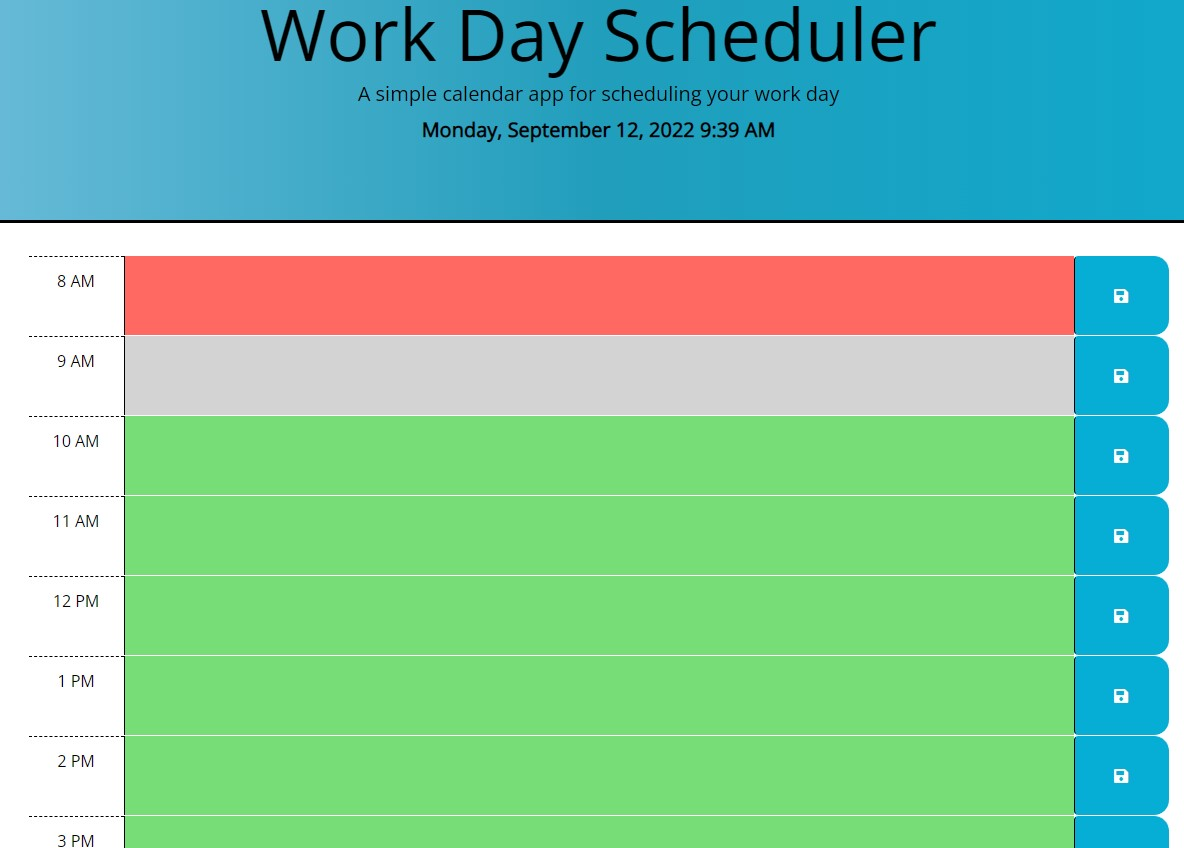
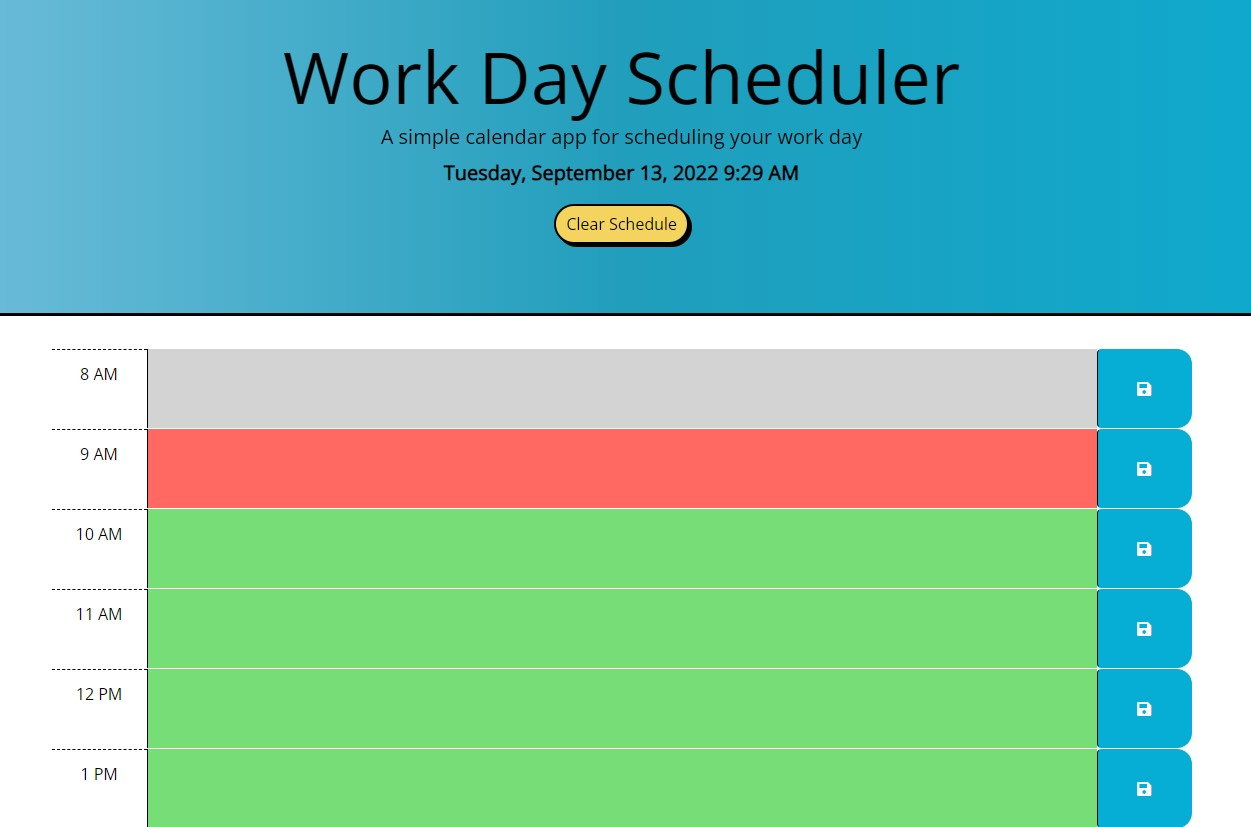
updated css and jss formatting and images of clear button

diff --git a/assets/CSS/style.css b/assets/CSS/style.css
@@ -24,11 +24,10 @@
   border-color: var(--c-black);
   background-color: var(--c-red);
   box-shadow: 3px 3px 0px 0px var(--c-black);
+  transition: all 0.2s ease-in-out;
 }
 
-#delete_data:focus {
-  background-color: var(--c-red)
-}
+
 
 body {
   font-family: 'Open Sans', sans-serif;

diff --git a/README.md b/README.md
@@ -26,16 +26,24 @@ To start the application just visit the website
 
 ![alt text](assets/images/Screenshot-1.jpg)
 
-- Passage of time
-    - Red = Past
-    - Grey = Present
+- Passage of time legend
+    - Grey = Past
+    - Red = Present
     - Green = Future
 
 ![alt text](assets/images/Screenshot-2.jpg)
 
-- Save Button - so the user may save the calender in local storage and when they refresh the page it will be persistent
+- Save Button - so the user may save the schedule in local storage and when they refresh the page it will be persistent
 
 ![alt text](assets/images/Screenshot-3.jpg)
+
+- Clear Schedule Button - so the user may clear the schedule in local storage and the screen
+
+![alt text](assets/images/Screenshot-5.jpg)
+
+- When mouse hovers over Clear Schedule Button changes red to warn user that it will clear schedule
+
+![alt text](assets/images/Screenshot-6.jpg)
 
 - Screenshot of filled out Calender which is saved
 
